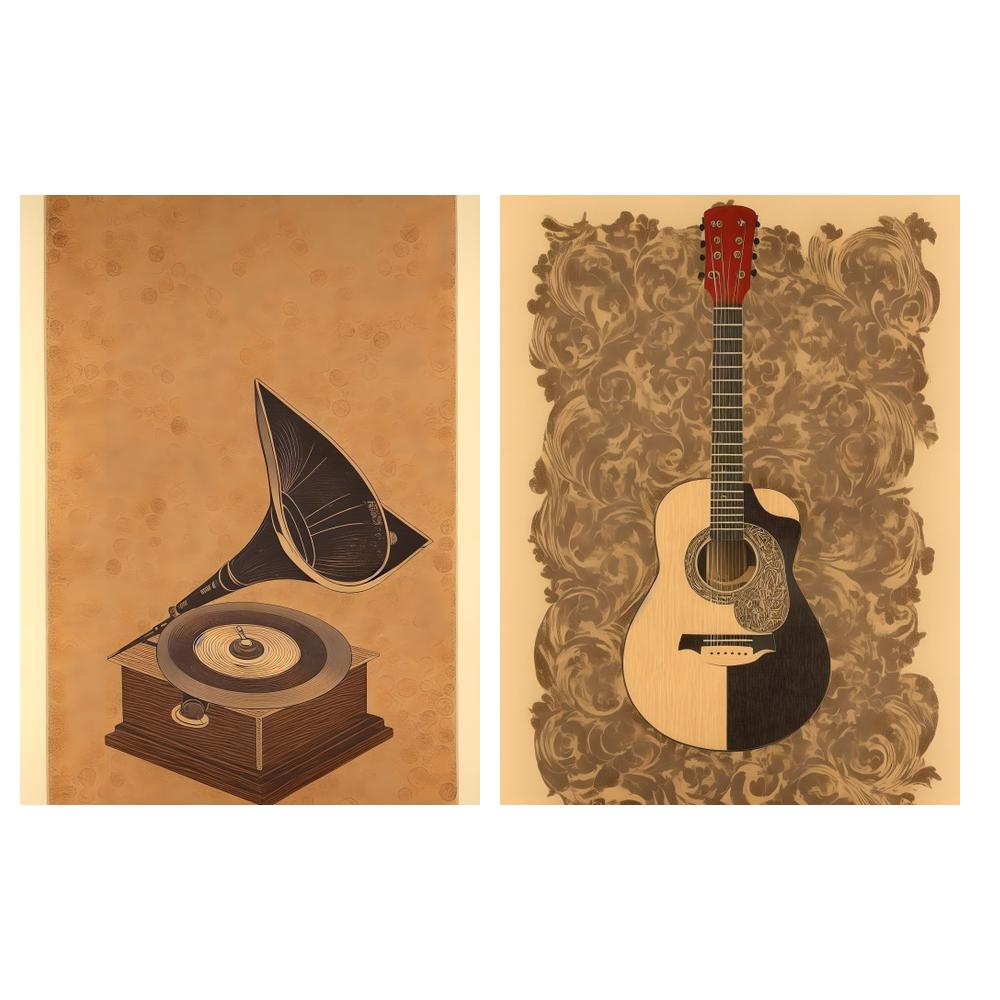
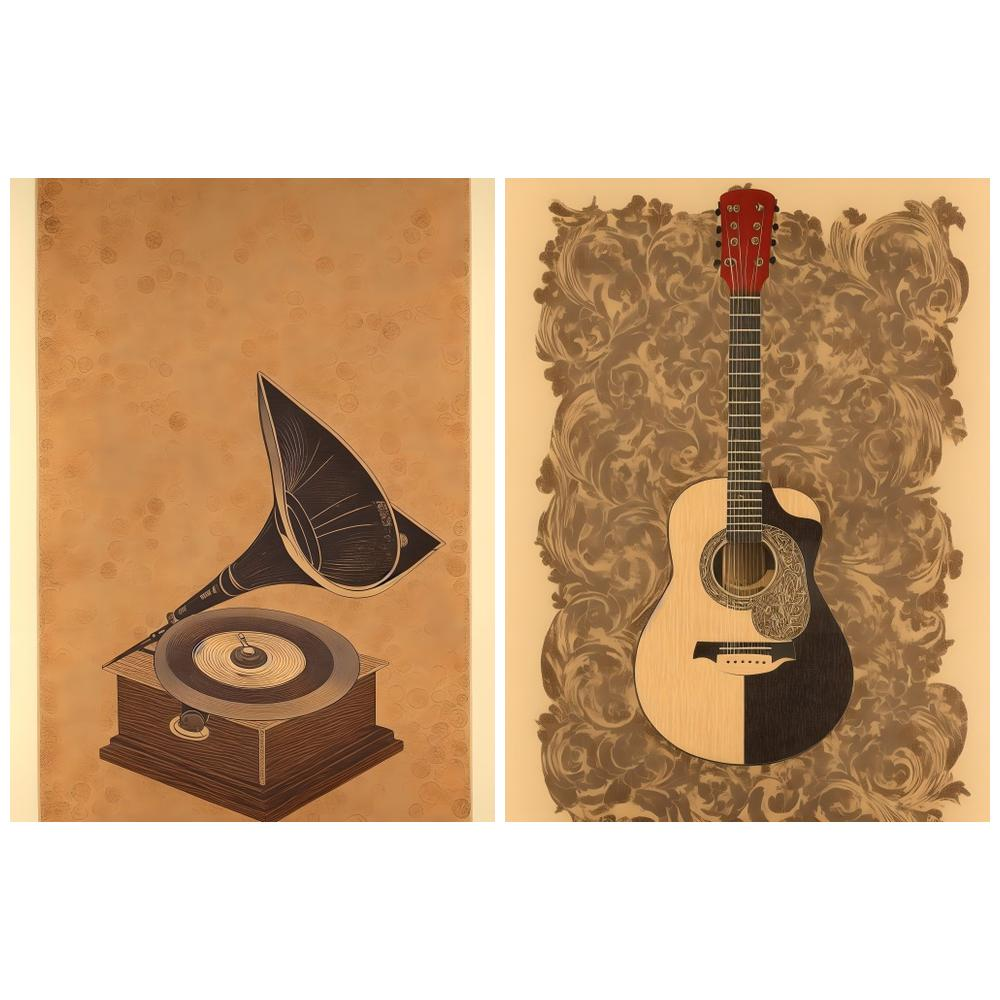
First push

Changed region(s): [[0.0, 0.155, 0.992, 0.837]]

diff --git a/my_contact_sheets.py b/my_contact_sheets.py
@@ -10,15 +10,23 @@ def create_contact_sheet(images_path, output_size: int = 1000):
     rows = 0
     cols = 0
 
-    margin = output_size * 0.02
-    # margin = 10
+    # margin = output_size * 0.02
+    margin = 10
     img = Image.open(images[0])
+    num_of_images = len(images)
     if len(images) == 2:
         rows = 1
         cols = 2
+    elif len(images) == 3:
+        rows = 1
+        cols = 3
 
     if cols >= rows:
-        thumb_width = int(output_size / cols - (cols * margin))
+        # thumb_width = int(output_size / cols - ((cols+1) * margin))
+
+        thumb_width = int((output_size - ((num_of_images+1) * margin)) / num_of_images)
+
+        # thumb_width = int( output_size / (len(images) + 1)       )
         thumb_height = int(thumb_width * img.height / img.width)
 
 
@@ -35,7 +43,7 @@ def create_contact_sheet(images_path, output_size: int = 1000):
             img = img.resize((thumb_width, thumb_height), Image.Resampling.LANCZOS)
             image_index += 1
             contact_sheet.paste(img, (int(x) + int(margin), int(y)))
-            x = x + (x + thumb_width) + margin
+            x = (x + thumb_width) + margin
 
 
     # x = 0
@@ -58,4 +66,4 @@ def create_contact_sheet(images_path, output_size: int = 1000):
     contact_sheet.save('./my_contact_sheet.jpg')
 
 
-create_contact_sheet('./photos/items/4/2')
+create_contact_sheet('photos/items/2')

diff --git a/tests/test_create_image.py b/tests/test_create_image.py
@@ -1,7 +1,7 @@
 from PIL import Image
 
 img = Image.new("RGB", (800, 1280), (255, 255, 255))
-p = Image.open('../photos/items/4/1/WB-Drum.jpg')
+p = Image.open('../photos/items/1/WB-Drum.jpg')
 p=p.resize((10,10))
 img.paste(p)
 img.save("./image.png", "PNG")
